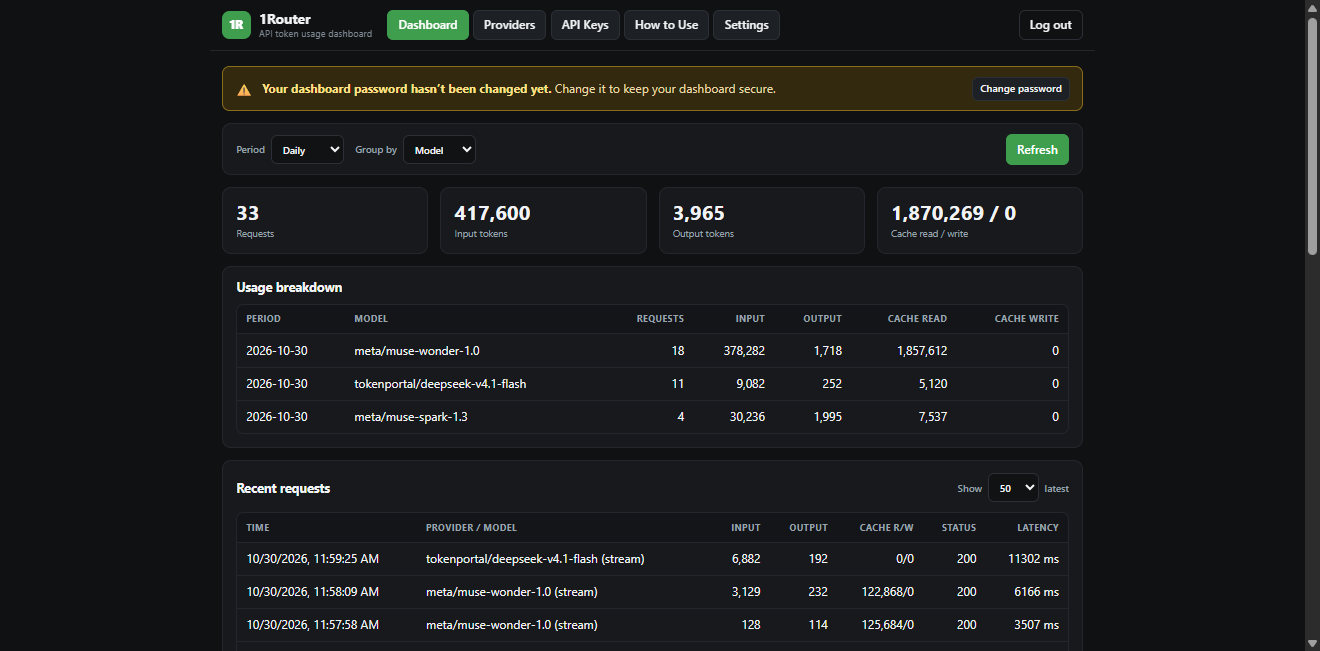
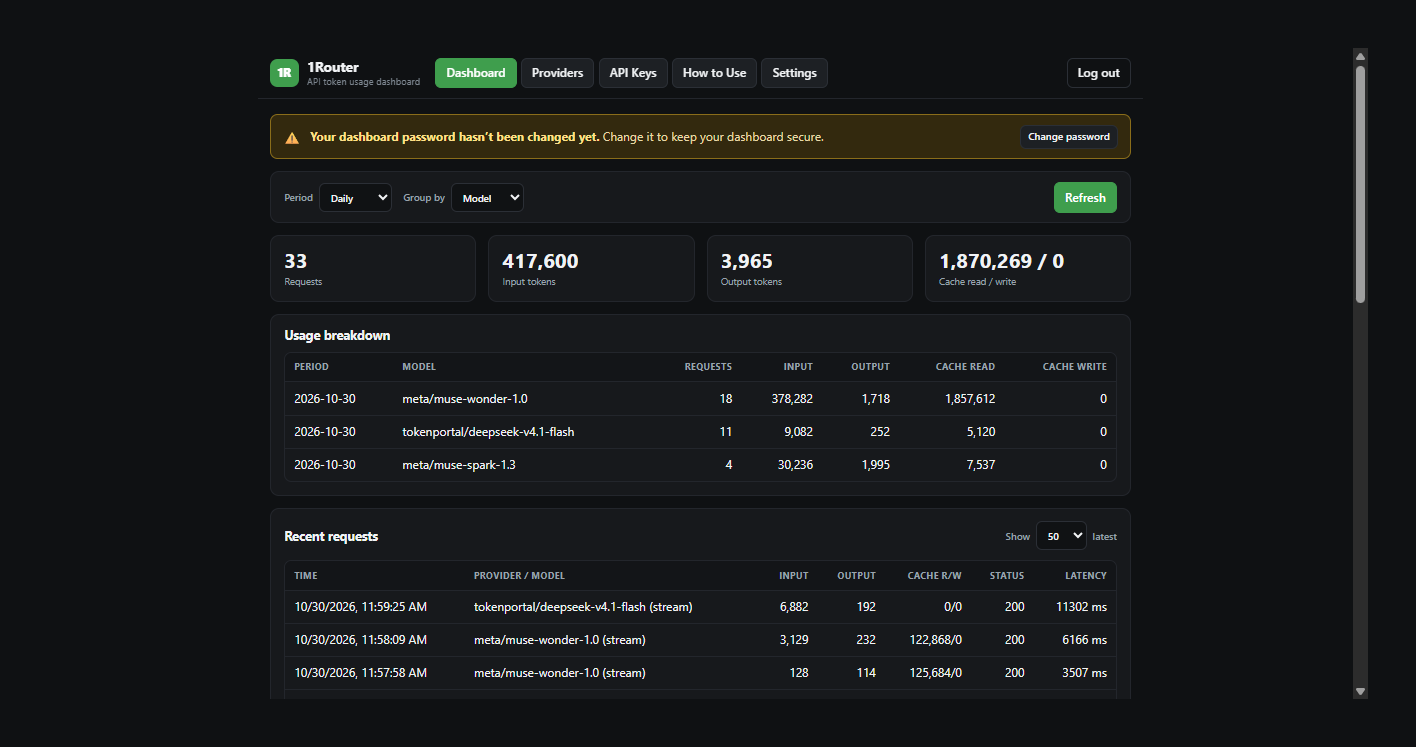
feat: add SQLite database export; give README screenshot margin

diff --git a/test/db.test.ts b/test/db.test.ts
@@ -119,6 +119,26 @@ test("stats grouped by client key and by model; periods bucket correctly", () =>
   assert.equal(db.stats({ period: "daily", groupBy: "provider" }).filter((r) => r.group === "openai").length >= 2, true);
 });
 
+test("serialize produces a restorable backup without sessions", async () => {
+  const { writeFileSync, rmSync } = await import("node:fs");
+  const db = createDb(":memory:");
+  const k = db.createKey("backup-key");
+  db.createProvider({ slug: "openai", name: "OpenAI", baseUrl: "https://api.openai.com/v1", api: "openai-responses", apiKey: "secret", models: ["gpt-5"] });
+  db.setSetting("login_password_hash", "HASH");
+  db.createSession(60_000);
+  db.insertEvent(ev({ clientKeyId: k.id }));
+  const path = "test-backup-tmp.db";
+  writeFileSync(path, db.serialize());
+  const restored = createDb(path);
+  assert.equal(restored.findKeyBySecret(k.key)?.name, "backup-key");
+  assert.equal(restored.listProviders()[0].slug, "openai");
+  assert.equal(restored.getSetting("login_password_hash"), "HASH");
+  assert.equal(restored.findSession("anything"), null);
+  assert.equal(restored.recentEvents(10).length, 1);
+  restored.close();
+  rmSync(path, { force: true });
+});
+
 test("recentEvents returns newest first", () => {
   const db = createDb(":memory:");
   db.createKey("k");

diff --git a/test/server.test.ts b/test/server.test.ts
@@ -278,6 +278,18 @@ test("POST /api/test-request with a bad key or model returns ok:false (not a raw
   assert.equal((await fetch(base + "/api/test-request", { method: "POST", headers: { "content-type": "application/json" }, body: "{}" })).status, 401);
 });
 
+test("GET /api/export downloads a real SQLite backup (session required)", async () => {
+  assert.equal((await fetch(base + "/api/export")).status, 401);
+  const res = await admin("/api/export");
+  assert.equal(res.status, 200);
+  assert.match(res.headers.get("content-type") ?? "", /sqlite/);
+  assert.match(res.headers.get("content-disposition") ?? "", /attachment; filename="1router-backup-.*\.db"/);
+  const bytes = new Uint8Array(await res.arrayBuffer());
+  assert.equal(Buffer.from(bytes.subarray(0, 15)).toString(), "SQLite format 3");
+  // the backup contains the seeded provider (i.e. it is a usable copy, not an empty file)
+  assert.ok(Buffer.from(bytes).toString("latin1").includes("fakeopenai"));
+});
+
 test("logout invalidates the session", async () => {
   const res = await login("newpass123");
   const c = (res.headers.get("set-cookie") ?? "").split(";")[0];

diff --git a/public/app.js b/public/app.js
@@ -16,7 +16,7 @@ const apiJson = (path, method, body) => api(path, { method, headers: { "content-
 // ---------- universal button feedback ----------
 // Every click gets an immediate visual pulse; copy buttons additionally say so.
 document.addEventListener("click", (e) => {
-  const btn = e.target.closest("button");
+  const btn = e.target.closest("button, a.btn");
   if (!btn) return;
   btn.classList.remove("clicked");
   void btn.offsetWidth; // restart the animation on rapid repeat clicks
@@ -246,6 +246,12 @@ document.querySelectorAll("[data-copy]").forEach((b) => b.addEventListener("clic
 
 $("default-banner-settings").addEventListener("click", () => {
   document.querySelector('button.tab[data-tab="settings"]')?.click();
+});
+
+$("export-db").addEventListener("click", () => {
+  const msg = $("export-msg");
+  if (msg) msg.textContent = "Downloading your database backup…";
+  setTimeout(() => { if (msg) msg.textContent = "Downloaded. Restore by replacing the database file while 1Router is stopped."; }, 800);
 });
 
 // ---------- settings / logout ----------

diff --git a/test/ui.test.ts b/test/ui.test.ts
@@ -19,7 +19,7 @@ test("provider models textarea cannot be resized", () => {
 test("every button gives click feedback", () => {
   assert.match(css, /button[^{]*:active\s*\{/);
   assert.match(css, /\.clicked\s*\{/);
-  assert.match(js, /closest\("button"\)/);
+  assert.match(js, /closest\("button, a\.btn"\)/);
   assert.match(js, /classList\.add\("clicked"\)/);
 });
 
@@ -49,6 +49,14 @@ test("weekly breakdown rows show Monday-to-end-of-week range in the UI", () => {
 
 test("brand subheading says API token usage dashboard", () => {
   assert.ok(html.includes("API token usage dashboard"), "brand subheading must say 'API token usage dashboard'");
+});
+
+test("Settings offers SQLite export", () => {
+  assert.match(html, /id="export-db"/);
+  assert.match(html, /Download SQLite backup/);
+  assert.match(js, /export-db/);
+  const readme = readFileSync(new URL("../../README.md", import.meta.url), "utf8");
+  assert.ok(readme.includes("images/1router-dashboard.png"));
 });
 
 test("layout primitives exist for aligned panels/tables/forms", () => {

diff --git a/src/server.ts b/src/server.ts
@@ -294,6 +294,16 @@ export function createServer(opts: ServerOptions): http.Server {
           return json(res, 200, { authenticated: true, passwordIsDefault: passwordIsDefault(db) });
         }
         if (req.method === "POST" && path === "/api/test-request") return await testRequest(req, res);
+        if (req.method === "GET" && path === "/api/export") {
+          const bytes = db.serialize();
+          const filename = `1router-backup-${new Date().toISOString().slice(0, 19).replace(/[:T]/g, "-")}.db`;
+          res.writeHead(200, {
+            "content-type": "application/vnd.sqlite3",
+            "content-disposition": `attachment; filename="${filename}"`,
+            "content-length": bytes.length,
+          });
+          return res.end(bytes);
+        }
         if (req.method === "POST" && path === "/api/change-password") {
           const body = await readJson(req);
           const next = String(body?.newPassword ?? "");

diff --git a/src/db.ts b/src/db.ts
@@ -84,6 +84,8 @@ export interface Db {
   insertEvent(e: UsageEventInput): number;
   stats(q: { period: StatsPeriod; groupBy: StatsGroupBy }): StatsRow[];
   recentEvents(limit: number): UsageEvent[];
+  /** Consistent standalone copy of the whole DB (sessions cleared), for /api/export. */
+  serialize(): Uint8Array;
   close(): void;
 }
 
@@ -286,6 +288,10 @@ export function createDb(path: string): Db {
         period: r.period, group: r.grp, requests: r.requests, input: r.input, output: r.output,
         cacheRead: r.cache_read, cacheWrite: r.cache_write,
       }));
+    },
+    serialize() {
+      sqlite.exec("DELETE FROM sessions"); // a backup must not carry live logins
+      return sqlite.serialize();
     },
     recentEvents(limit) {
       const rows = sqlite.prepare("SELECT * FROM usage_events ORDER BY id DESC LIMIT ?").all(limit) as any[];

diff --git a/public/index.html b/public/index.html
@@ -234,6 +234,14 @@
         </div>
       </form>
     </div>
+    <div class="panel narrow">
+      <div class="panel-head"><h2>Backup &amp; export</h2></div>
+      <p class="muted panel-note">Download a copy of the SQLite database: providers (including their API keys), client keys, dashboard settings, and full usage history. Login sessions are not included. Keep the file private — treat it like your provider keys. To restore: stop 1Router, replace the database file (<code>data/1router.db</code> by default), and start it again.</p>
+      <div class="form-actions">
+        <span id="export-msg" class="form-msg"></span>
+        <a id="export-db" class="btn btn-primary" href="/api/export" download>Download SQLite backup (.db)</a>
+      </div>
+    </div>
   </section>
 </main>
 

diff --git a/public/style.css b/public/style.css
@@ -105,8 +105,9 @@ input:focus, select:focus, textarea:focus { border-color: var(--accent); box-sha
 .btn-danger { color: #ffaaa6; border-color: rgb(217 83 79 / .55); }
 .btn-danger:hover { background: rgb(217 83 79 / .14); }
 .tab.active { background: var(--accent); border-color: var(--accent); color: #fff; }
-button.clicked { animation: click-pulse .45s ease; border-color: var(--accent); box-shadow: 0 0 0 3px rgb(63 158 77 / .28); }
+button.clicked, a.btn.clicked { animation: click-pulse .45s ease; border-color: var(--accent); box-shadow: 0 0 0 3px rgb(63 158 77 / .28); }
 button.busy { pointer-events: none; }
+a.btn:active { transform: translateY(1px) scale(.98); }
 @keyframes click-pulse {
   0% { transform: scale(.96); }
   55% { transform: scale(1.025); }

diff --git a/README.md b/README.md
@@ -148,6 +148,14 @@ Endpoints by API type:
 
 Env: `PORT` (8787), `HOST` (127.0.0.1), `DB_PATH` (`data/1router.db`).
 
+### Backup & restore
+
+**Settings → Backup & export → Download SQLite backup (.db)** saves a copy
+of the whole database (providers incl. their keys, client keys, settings,
+usage history; login sessions excluded). Store it somewhere private. To
+restore: stop 1Router, replace the database file with the backup, start
+1Router again.
+
 ## Development
 
 ```bash
